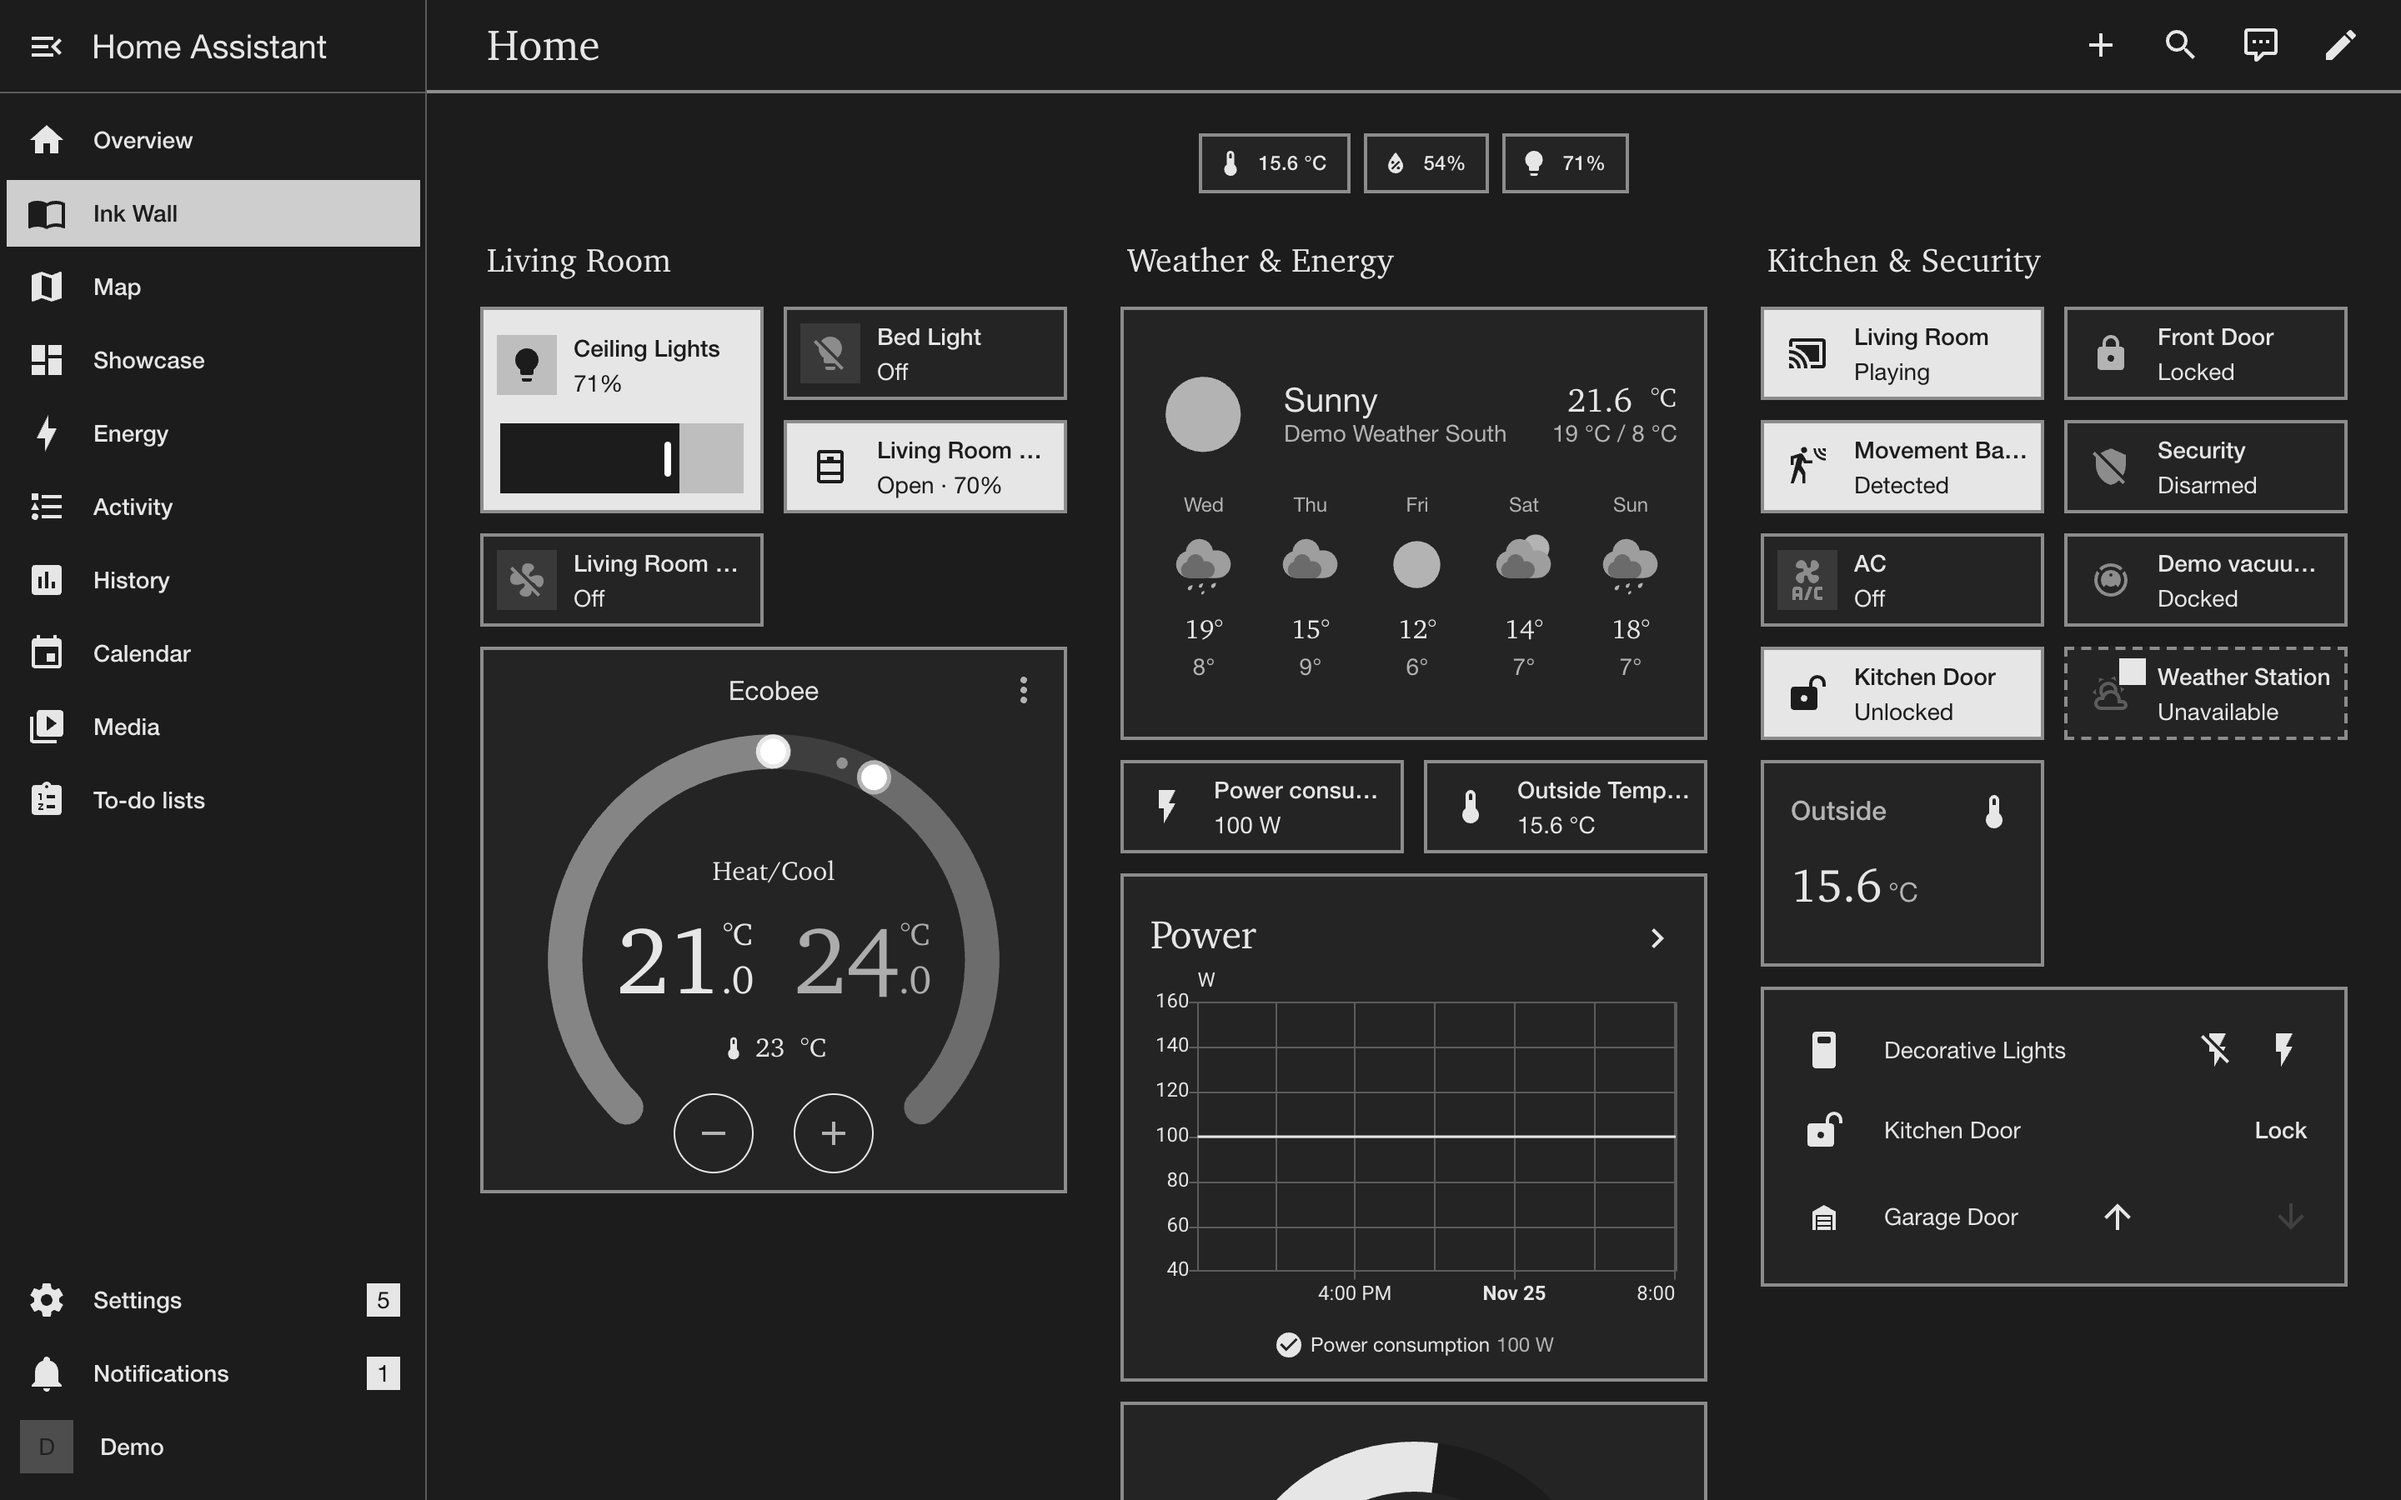
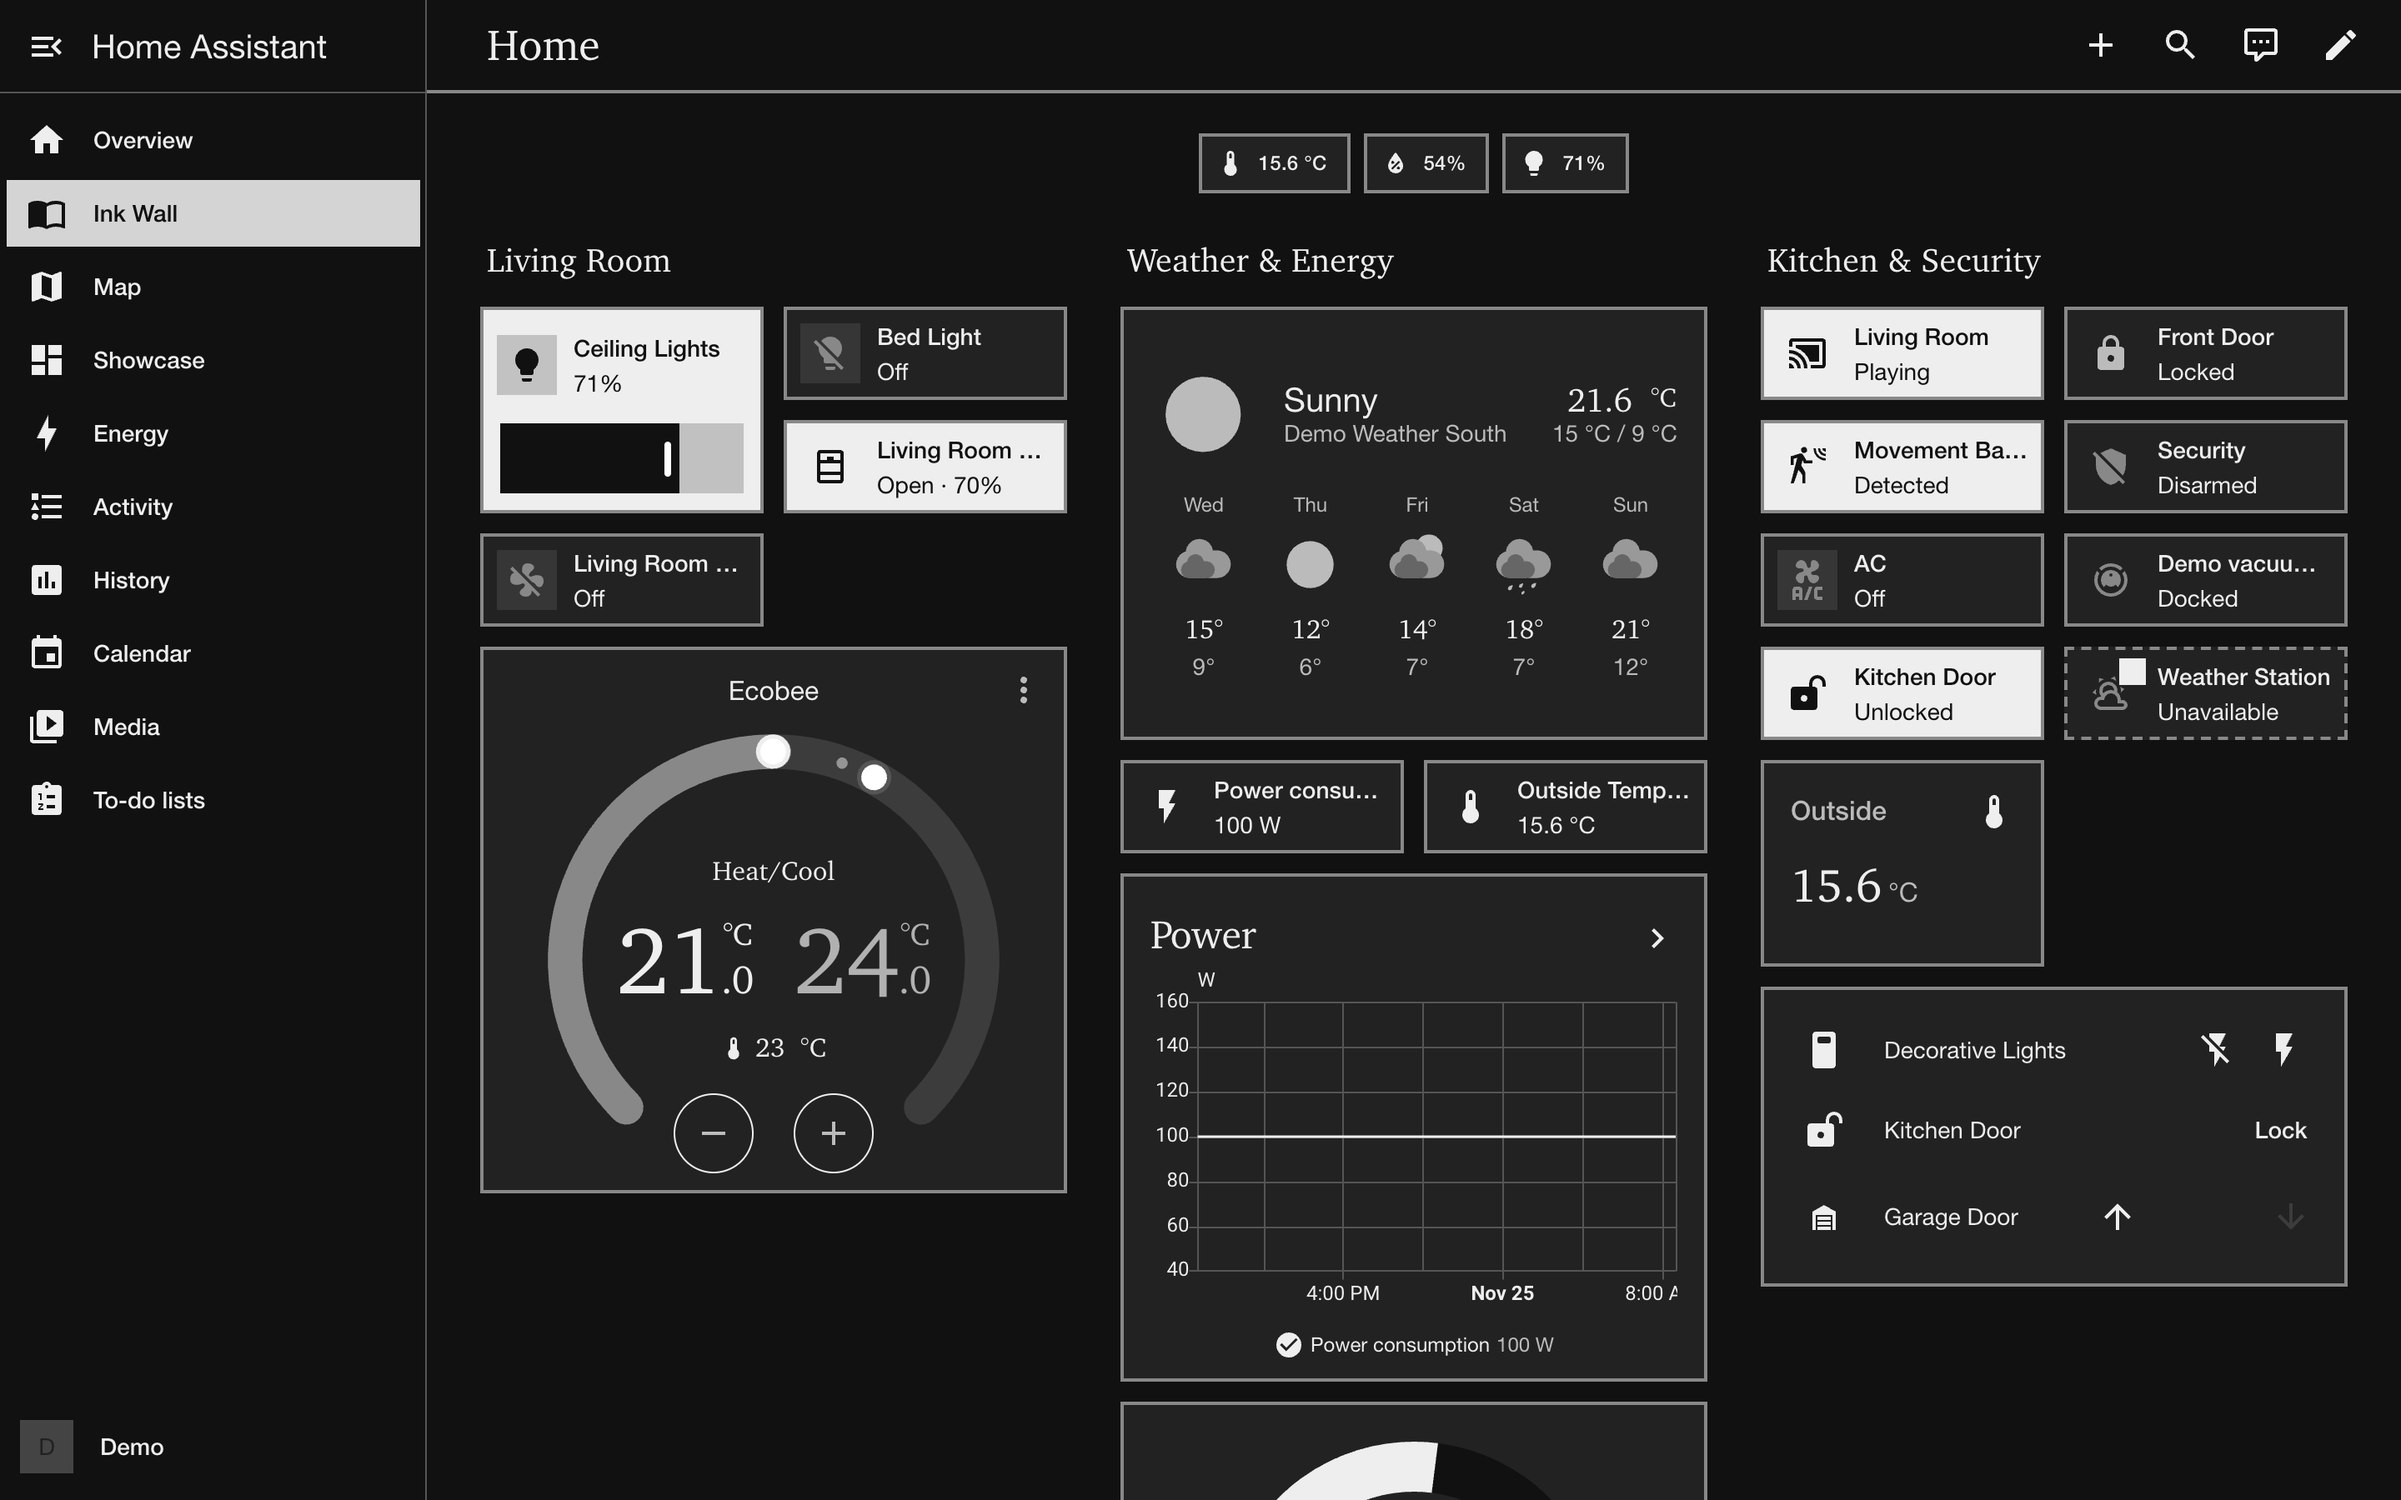
README images for 1.1.1: dark without card-mod and the light dialog

diff --git a/README.md b/README.md
@@ -25,7 +25,9 @@ A strictly monochrome theme for Home Assistant, made for e-paper and e-ink wall 
 
 Without card-mod the theme still works: cards, rules, greys, spacing and fonts stay, switched-on devices show an ink icon instead of a reversed tile, and headings use the label font.
 
-![Without card-mod: outlined cards, switched-on devices show an ink icon](https://raw.githubusercontent.com/wsclx/ink-wall-theme/main/images/dashboard-light-desktop-no-cardmod.png)
+| Light without card-mod | Dark without card-mod |
+|---|---|
+| ![Light mode without card-mod: outlined cards, switched-on devices show an ink icon](https://raw.githubusercontent.com/wsclx/ink-wall-theme/main/images/dashboard-light-desktop-no-cardmod.png) | ![Dark mode without card-mod](https://raw.githubusercontent.com/wsclx/ink-wall-theme/main/images/dashboard-dark-desktop-no-cardmod.png) |
 
 ![Entity list in dark mode](https://raw.githubusercontent.com/wsclx/ink-wall-theme/main/images/entities-dark-desktop.png)
 
@@ -104,6 +106,9 @@ Change the variables below in a copy of the theme, or override them with card-mo
 
 - Home Assistant does not guarantee theme variables between releases. If something looks off after an update, please open an issue with your version.
 - **Coloured lights:** a light that reports a colour shows that colour in its tile icon, its brightness slider and its badge. The frontend sets it per light, so a theme cannot change it. With card-mod the tile turns ink and the badge grey; in the light's dialog the colour picker keeps its colours.
+
+  ![The light dialog keeps the colour of the light and its colour presets](https://raw.githubusercontent.com/wsclx/ink-wall-theme/main/images/more-info-light-desktop.png)
+
 - **Patterns:** a theme can only set colours and, with card-mod, the style of a rule (the dashed rule of unavailable tiles), not hatching or dot patterns. States that used to differ by colour alone (armed and triggered alarms, errors and warnings) differ by grey value, icon and text. The weather icons are filled shapes, so the sun is a grey disc rather than a line drawing.
 - Without card-mod a theme cannot fill a whole tile by its state or change its rule, only the icon. The reversed tile and the dashed rule need card-mod.
 - Switches keep their round shape and a few frontend transitions (about 0.2 s) stay: both are fixed in the frontend. The press ripple is switched off on tiles with card-mod and wherever the frontend reads the theme value; some controls keep their own.

diff --git a/CHANGELOG.md b/CHANGELOG.md
@@ -15,7 +15,7 @@ The format follows [Keep a Changelog](https://keepachangelog.com/en/1.1.0/), ver
 
 ### Changed
 - Press ripple switched off on tiles (with card-mod) and wherever the frontend reads the theme value.
-- README: corrected the grey-level claim, added a note on full refreshes against ghosting, and named the remaining limits.
+- README: corrected the grey-level claim, added a note on full refreshes against ghosting, named the remaining limits, and added images of dark mode without card-mod and of the light dialog.
 
 ## [1.1.0] - 2026-11-25
 
